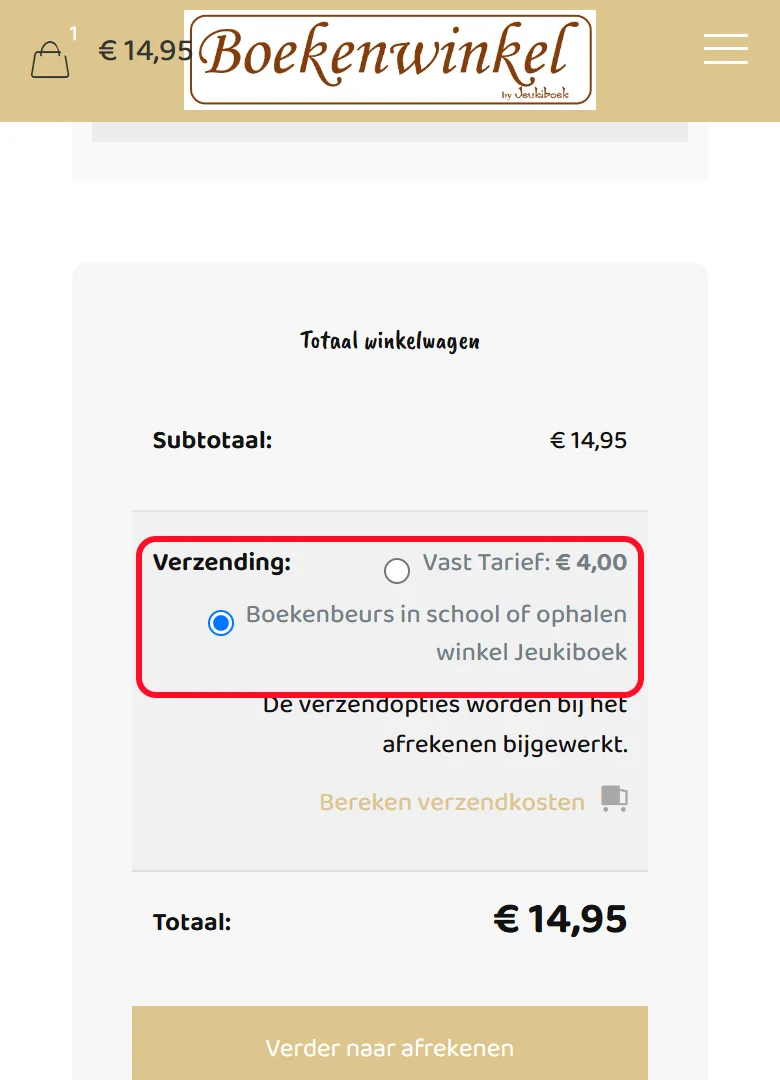
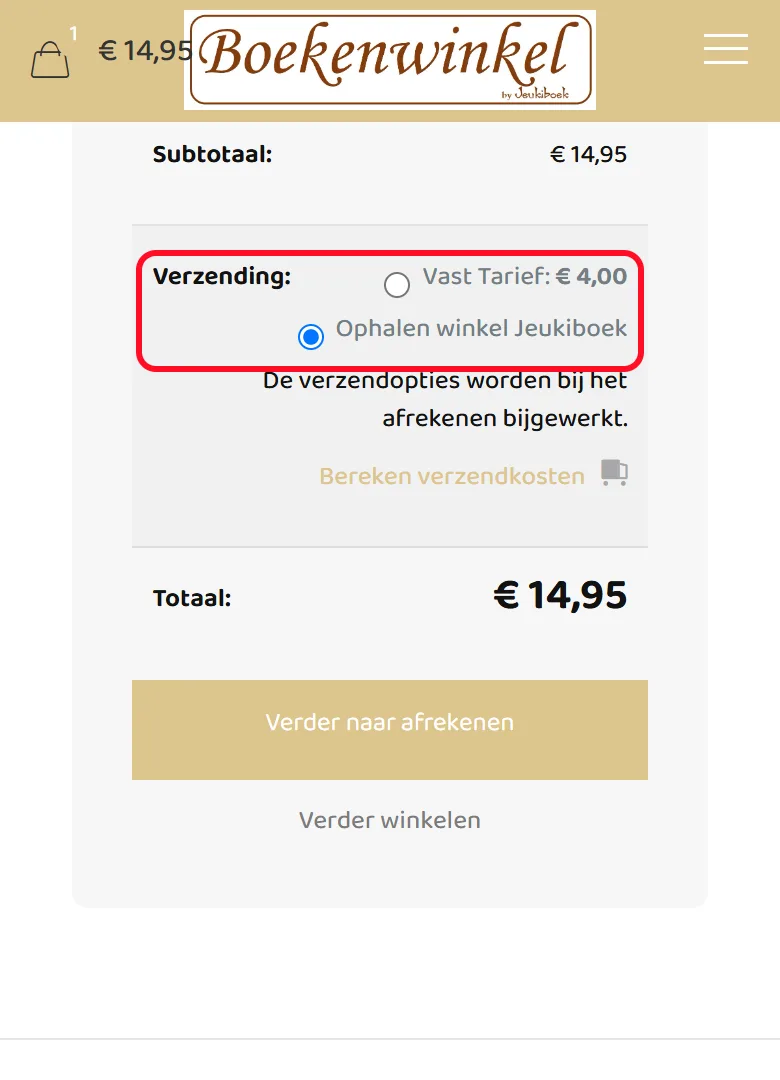
Online bestellen terug op de pagina, met de nieuwe procedure: ophalen winkel Jeukiboek en order notities

diff --git a/index.html b/index.html
@@ -244,6 +244,7 @@
   .info dd { margin: 0; }
   .tip { background: #f8eef0; border-radius: 12px; padding: .75rem 1rem; font-size: .98rem; }
   .tip b { color: var(--wijn); }
+  .notitie { display: block; margin-top: .4rem; padding: .5rem .75rem; background: var(--papier); border: 1px solid var(--rand); border-radius: 8px; font-family: ui-monospace, Consolas, monospace; font-size: .92rem; color: var(--tekst); }
 
   /* Tekening rechtsonder binnen het vak, in de vrijgehouden rechterkolom */
   .deco { position: absolute; right: 1.25rem; bottom: 1.25rem; width: 150px; pointer-events: none; }
@@ -402,6 +403,7 @@
       <nav aria-label="Op deze pagina">
         <a href="#praktisch">Praktisch</a>
         <a href="#auteur">Auteur</a>
+        <a href="#bestellen">Online bestellen</a>
         <a href="#factuur">Op factuur</a>
       </nav>
       <div class="top-socials">
@@ -476,9 +478,31 @@
           <span class="wanneer">vr 13/11</span>
           <p><b>Lezing door Kris Kowlier</b> voor de leerlingen van het 5e en 6e leerjaar.</p>
         </div>
+        <p>Een boek laten signeren tijdens de lezing? <a href="#bestellen">Bestel het vooraf online</a>.</p>
       </section>
 
-      <section class="paneel span-12 met-deco" id="factuur">
+      <section class="paneel span-7 met-deco" id="bestellen">
+        <h2>Online bestellen</h2>
+        <p>Heb je ergens een leuk boek gezien? Bestel het dan online via onze boekenbeurs. Zo steun je projecten voor de school: van elke bestelling gaat 15% naar de ouderraad.</p>
+        <p><b>Online bestellen kan tot en met zaterdag 14/11.</b> Na de beurs ligt het boek in de klas van je kind.</p>
+        <ol class="stappen">
+          <li><span><b>Leg je boek in je winkelwagen</b>Zoek het in de webshop van Jeukiboek, via de knop hieronder.</span></li>
+          <li><span><b>Kies “Ophalen winkel Jeukiboek”</b>In de winkelwagen, bij Verzending. Standaard staat “Vast tarief € 4,00” aangeduid. Ophalen is gratis: het boek komt naar de klas.</span></li>
+          <li><span><b>Schrijf bij “Order notities” de school, klas en naam</b>Vul bij het afrekenen je gegevens in en zet onderaan bij Order notities, met de klas en naam van je kind:<span class="notitie">[Boekenbeurs De Wassenaard]<br>Klas 3A - Naam Leerling</span></span></li>
+          <li><span><b>Bestel en betaal online</b>Na afloop van de beurs worden de boeken in de klas van je kind geleverd.</span></li>
+        </ol>
+        <p class="schermen-uitleg">Zo ziet het eruit in de webshop. Tik op een beeld om het te vergroten.</p>
+        <ol class="schermen">
+          <li><a href="img/bestellen-1.webp"><img src="img/bestellen-1.webp" alt="Boek in de webshop van Jeukiboek, de knop Toevoegen aan winkelwagen is omkaderd" width="780" height="1080" loading="lazy"><span>Toevoegen aan winkelwagen</span></a></li>
+          <li><a href="img/bestellen-2.webp"><img src="img/bestellen-2.webp" alt="Winkelwagen: bij Verzending is Ophalen winkel Jeukiboek aangeduid in plaats van Vast tarief € 4,00" width="780" height="1080" loading="lazy"><span>Verzending: ophalen winkel Jeukiboek</span></a></li>
+          <li><a href="img/bestellen-3.webp"><img src="img/bestellen-3.webp" alt="Afrekenen: bij Order notities staat [Boekenbeurs De Wassenaard] en op de volgende regel Klas 3A - Naam Leerling" width="780" height="1080" loading="lazy"><span>Order notities: school, klas en naam</span></a></li>
+        </ol>
+        <p class="tip"><b>Een boek laten signeren tijdens de lezing van Kris Kowlier?</b> Bestel het vooraf online en zet de klas en naam van je kind zeker juist bij de order notities.</p>
+        <a class="knop" href="https://www.jeukiboek.be/boekenwinkel/">Naar de webshop van Jeukiboek</a>
+        <img class="deco aap" src="img/aap.webp" alt="" width="480" height="635">
+      </section>
+
+      <section class="paneel span-5" id="factuur">
         <h2>Boeken op factuur</h2>
         <p>Boeken voor je wachtzaal, kinderhoek of als cadeau voor je personeel? Koop op factuur en steun de school.</p>
         <ul class="lijst">
@@ -487,7 +511,6 @@
           <li>Bedrijven: een Sinterklaas- of kerstcadeau dat blijft</li>
         </ul>
         <p>Geef aan de kassa je factuurgegevens door, Jeukiboek bezorgt je de factuur.</p>
-        <img class="deco aap" src="img/aap.webp" alt="" width="480" height="635">
       </section>
 
       <section class="paneel span-12" id="vroeger">
@@ -522,10 +545,44 @@
   </footer>
 </div>
 
+<dialog class="groot" id="groot" aria-label="Schermafbeeldingen van de webshop">
+  <div class="groot-rij" tabindex="-1"></div>
+  <button class="groot-knop sluit" type="button" aria-label="Sluiten">✕</button>
+  <button class="groot-knop vorige" type="button" aria-label="Vorige">‹</button>
+  <button class="groot-knop volgende" type="button" aria-label="Volgende">›</button>
+</dialog>
+
 <script>
   // Herhaal de namenmuur zodat ook grote schermen gevuld zijn.
   const namen = document.querySelector('.namen p');
   namen.innerHTML = Array(4).fill(namen.innerHTML).join(' | ');
+
+  // Schermafbeeldingen van de webshop groot tonen. Zonder JavaScript opent de link gewoon de afbeelding.
+  const groot = document.getElementById('groot');
+  const rij = groot.querySelector('.groot-rij');
+  const schermen = [...document.querySelectorAll('.schermen a')];
+  const zacht = matchMedia('(prefers-reduced-motion: reduce)').matches ? 'auto' : 'smooth';
+  const blader = r => rij.scrollBy({ left: r * rij.clientWidth, behavior: zacht });
+  schermen.forEach((a, i) => {
+    const fig = document.createElement('figure');
+    const cap = document.createElement('figcaption');
+    cap.textContent = `${i + 1}/${schermen.length} · ${a.textContent}`;
+    fig.append(a.querySelector('img').cloneNode(), cap);
+    rij.append(fig);
+    a.addEventListener('click', e => {
+      e.preventDefault();
+      groot.showModal();
+      rij.scrollTo({ left: i * rij.clientWidth, behavior: 'instant' });
+      rij.focus();
+    });
+  });
+  groot.querySelector('.sluit').addEventListener('click', () => groot.close());
+  groot.querySelector('.vorige').addEventListener('click', () => blader(-1));
+  groot.querySelector('.volgende').addEventListener('click', () => blader(1));
+  groot.addEventListener('click', e => { if (e.target === rij || e.target.tagName === 'FIGURE') groot.close(); });
+  groot.addEventListener('keydown', e => {
+    if (e.key === 'ArrowLeft' || e.key === 'ArrowRight') { e.preventDefault(); blader(e.key === 'ArrowLeft' ? -1 : 1); }
+  });
 </script>
 </body>
 </html>
